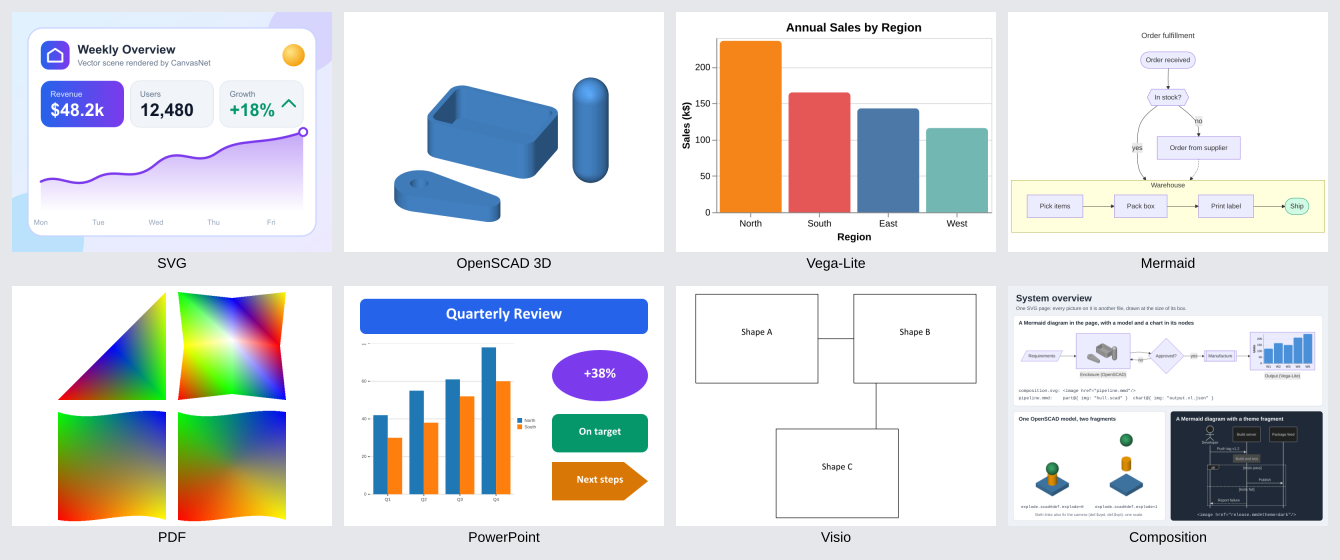
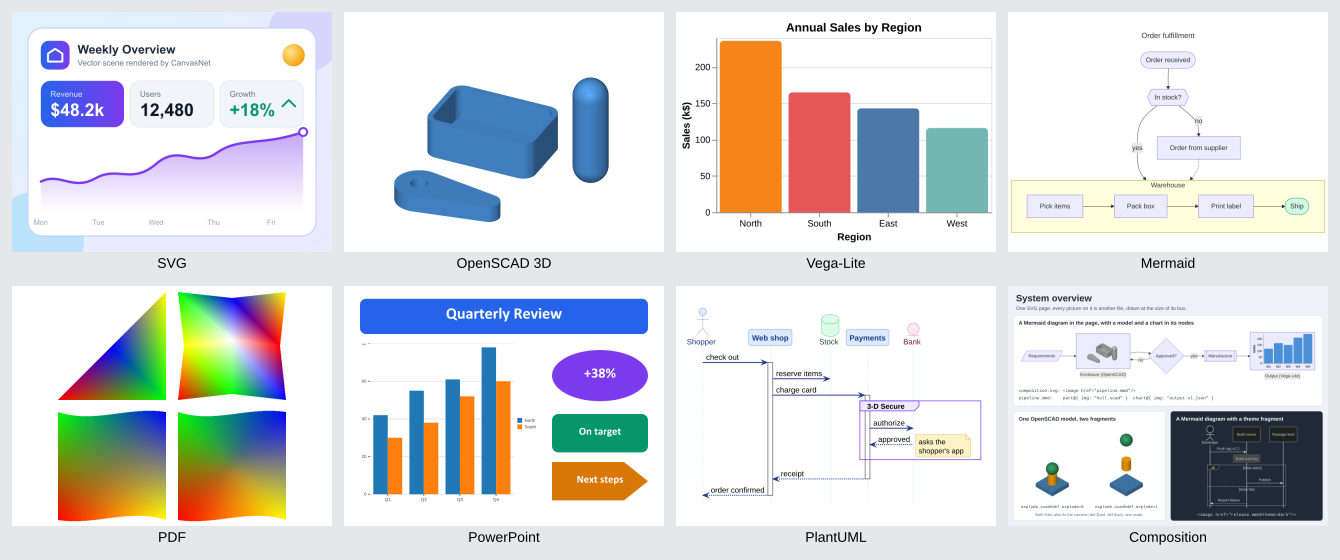
Replace the Visio panel of the showcase with PlantUML
The showcase now draws an original, skinparam-styled checkout sequence
diagram (showcase/checkout.puml) instead of the third-party Visio fixture,
so every showcase input is original and the BSD notice is no longer needed.

Changed region(s): [[0.5201, 0.5464, 0.7343, 0.9107], [0.5813, 0.9107, 0.6731, 0.9714], [0.5201, 0.5464, 0.5507, 0.5768]]

diff --git a/docs/images/README.md b/docs/images/README.md
@@ -118,14 +118,13 @@ chart shows, is **original to this repository** (MIT): the data is invented (a f
 ## showcase.png
 
 `showcase.png` (1340x560) is a montage of eight panels in a 4x2 grid, each rendered by the `canvasnet` command-line
-tool: SVG, OpenSCAD 3D, Vega-Lite, Mermaid, PDF, PowerPoint, Visio, and a composition of several formats on one SVG
+tool: SVG, OpenSCAD 3D, Vega-Lite, Mermaid, PDF, PowerPoint, PlantUML, and a composition of several formats on one SVG
 page. It is referenced from the README by an absolute URL, because the README is also shipped inside the
 NuGet packages.
 
 ### Provenance and Licensing
 
-Every input is either original to this repository (licensed under the repository's MIT license) or a
-permissively licensed third-party file that is credited below.
+Every input is original to this repository and licensed under the repository's MIT license.
 
 - **SVG**: `showcase/dashboard.svg` - original, authored for this repository (MIT)
 - **OpenSCAD 3D**: `showcase/hull.scad` - original, authored for this repository (MIT)
@@ -134,46 +133,10 @@ permissively licensed third-party file that is credited below.
 - **PDF**: `showcase/mesh-shading.pdf` - copy of the hand-authored test fixture
   `shading-mesh-types-4-5-6-7.pdf` (MIT)
 - **PowerPoint**: `showcase/slide.pptx` - original, generated by `showcase/make-slide.py` with python-pptx (MIT)
-- **Visio**: `davehoward-test4-connectors.vsdx` (not copied here) - third-party, BSD 3-Clause; see the notice below
+- **PlantUML**: `showcase/checkout.puml` - original, authored for this repository (MIT): a checkout sequence diagram
+  with an actor, a database, an entity, activations, a group, and a note, restyled with `skinparam` colors
 - **Composition**: `showcase/composition.svg` and the files it links (see *showcase/composition.svg* above) - original,
   authored for this repository (MIT)
-
-The Visio panel renders `test4_connectors.vsdx` from the
-[dave-howard/vsdx](https://github.com/dave-howard/vsdx) project, which is kept unmodified as
-`test/DemaConsulting.CanvasNet.Vsdx.Tests/VsdxFixtures/davehoward-test4-connectors.vsdx`. That project is
-distributed under the BSD 3-Clause License:
-
-```text
-BSD 3-Clause License
-
-Copyright (c) 2020, Dave Howard
-All rights reserved.
-
-Redistribution and use in source and binary forms, with or without
-modification, are permitted provided that the following conditions are met:
-
-1. Redistributions of source code must retain the above copyright notice, this
-   list of conditions and the following disclaimer.
-
-2. Redistributions in binary form must reproduce the above copyright notice,
-   this list of conditions and the following disclaimer in the documentation
-   and/or other materials provided with the distribution.
-
-3. Neither the name of the copyright holder nor the names of its
-   contributors may be used to endorse or promote products derived from
-   this software without specific prior written permission.
-
-THIS SOFTWARE IS PROVIDED BY THE COPYRIGHT HOLDERS AND CONTRIBUTORS "AS IS"
-AND ANY EXPRESS OR IMPLIED WARRANTIES, INCLUDING, BUT NOT LIMITED TO, THE
-IMPLIED WARRANTIES OF MERCHANTABILITY AND FITNESS FOR A PARTICULAR PURPOSE ARE
-DISCLAIMED. IN NO EVENT SHALL THE COPYRIGHT HOLDER OR CONTRIBUTORS BE LIABLE
-FOR ANY DIRECT, INDIRECT, INCIDENTAL, SPECIAL, EXEMPLARY, OR CONSEQUENTIAL
-DAMAGES (INCLUDING, BUT NOT LIMITED TO, PROCUREMENT OF SUBSTITUTE GOODS OR
-SERVICES; LOSS OF USE, DATA, OR PROFITS; OR BUSINESS INTERRUPTION) HOWEVER
-CAUSED AND ON ANY THEORY OF LIABILITY, WHETHER IN CONTRACT, STRICT LIABILITY,
-OR TORT (INCLUDING NEGLIGENCE OR OTHERWISE) ARISING IN ANY WAY OUT OF THE USE
-OF THIS SOFTWARE, EVEN IF ADVISED OF THE POSSIBILITY OF SUCH DAMAGE.
-```
 
 ### Regenerating
 
@@ -219,5 +182,5 @@ Notes:
 
 - The chart colors bars by region on the x axis, which already names each bar, so its legend is switched off with
   `legend: null`.
-- The Vega-Lite, Mermaid, PDF, PowerPoint, and Visio panels are padded with white to exactly 4:3 so that every cell
+- The Vega-Lite, Mermaid, PDF, PowerPoint, and PlantUML panels are padded with white to exactly 4:3 so that every cell
   has the same shape; the SVG, OpenSCAD, and Composition panels are drawn at 800x600 directly.

diff --git a/README.md b/README.md
@@ -60,9 +60,9 @@ PngCodec.Save(image.Surface, "overview.png");
 
 ## Gallery
 
-![CanvasNet showcase: an SVG dashboard, an OpenSCAD 3D model, a Vega-Lite bar chart, a Mermaid flowchart, a PDF page with mesh shadings, a PowerPoint slide with a chart, a Visio diagram, and an SVG page that composes several of them, all rendered by CanvasNet](https://raw.githubusercontent.com/demaconsulting/CanvasNet/main/docs/images/showcase.png)
+![CanvasNet showcase: an SVG dashboard, an OpenSCAD 3D model, a Vega-Lite bar chart, a Mermaid flowchart, a PDF page with mesh shadings, a PowerPoint slide with a chart, a PlantUML sequence diagram, and an SVG page that composes several of them, all rendered by CanvasNet](https://raw.githubusercontent.com/demaconsulting/CanvasNet/main/docs/images/showcase.png)
 
-*Rendered with the `canvasnet` tool: SVG, OpenSCAD 3D, Vega-Lite, Mermaid, PDF, PowerPoint, Visio, and a composition
+*Rendered with the `canvasnet` tool: SVG, OpenSCAD 3D, Vega-Lite, Mermaid, PDF, PowerPoint, PlantUML, and a composition
 of them (see the Composition section below). See
 [how the image was made](https://github.com/demaconsulting/CanvasNet/blob/main/docs/images/README.md).*
 
